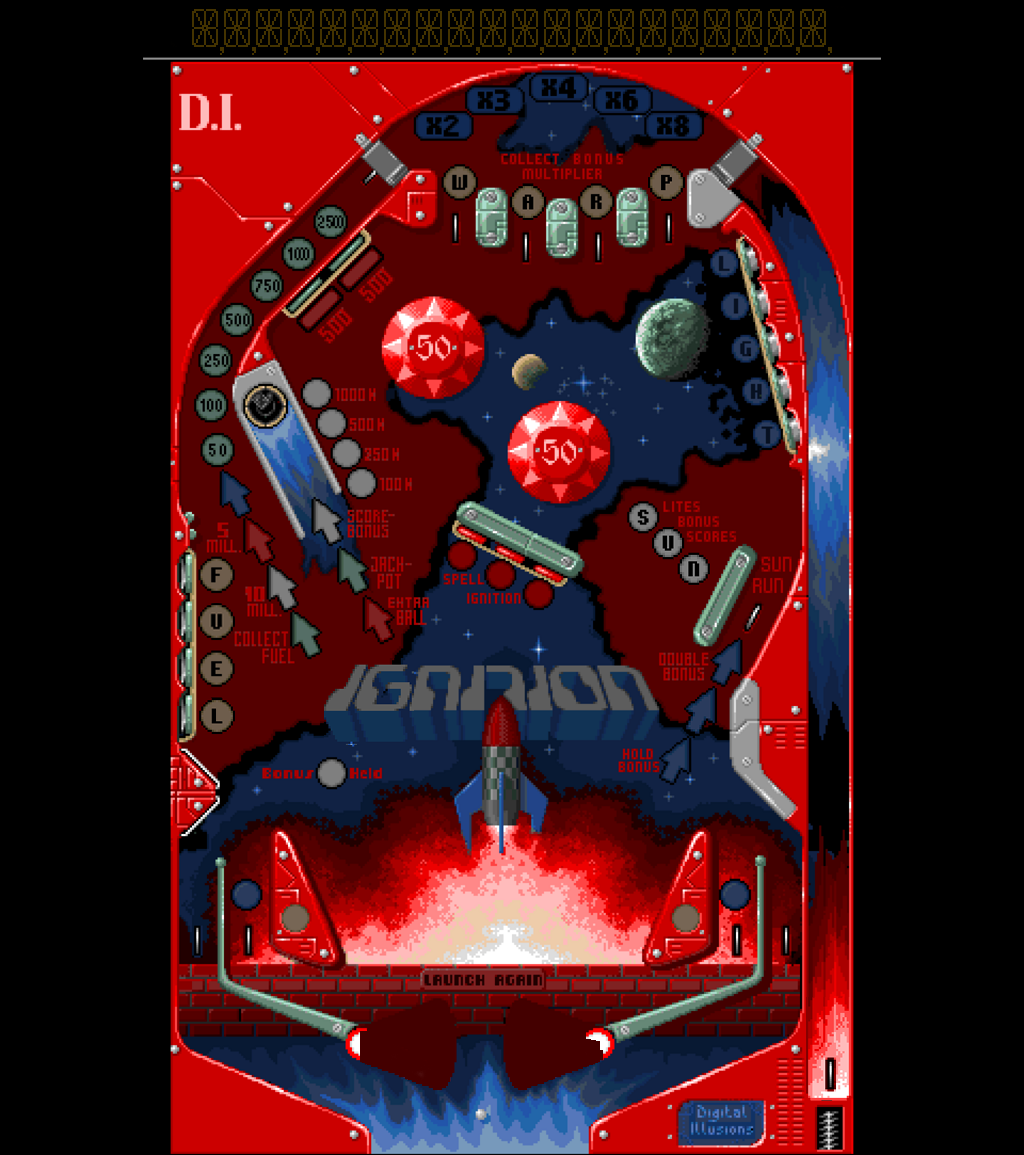
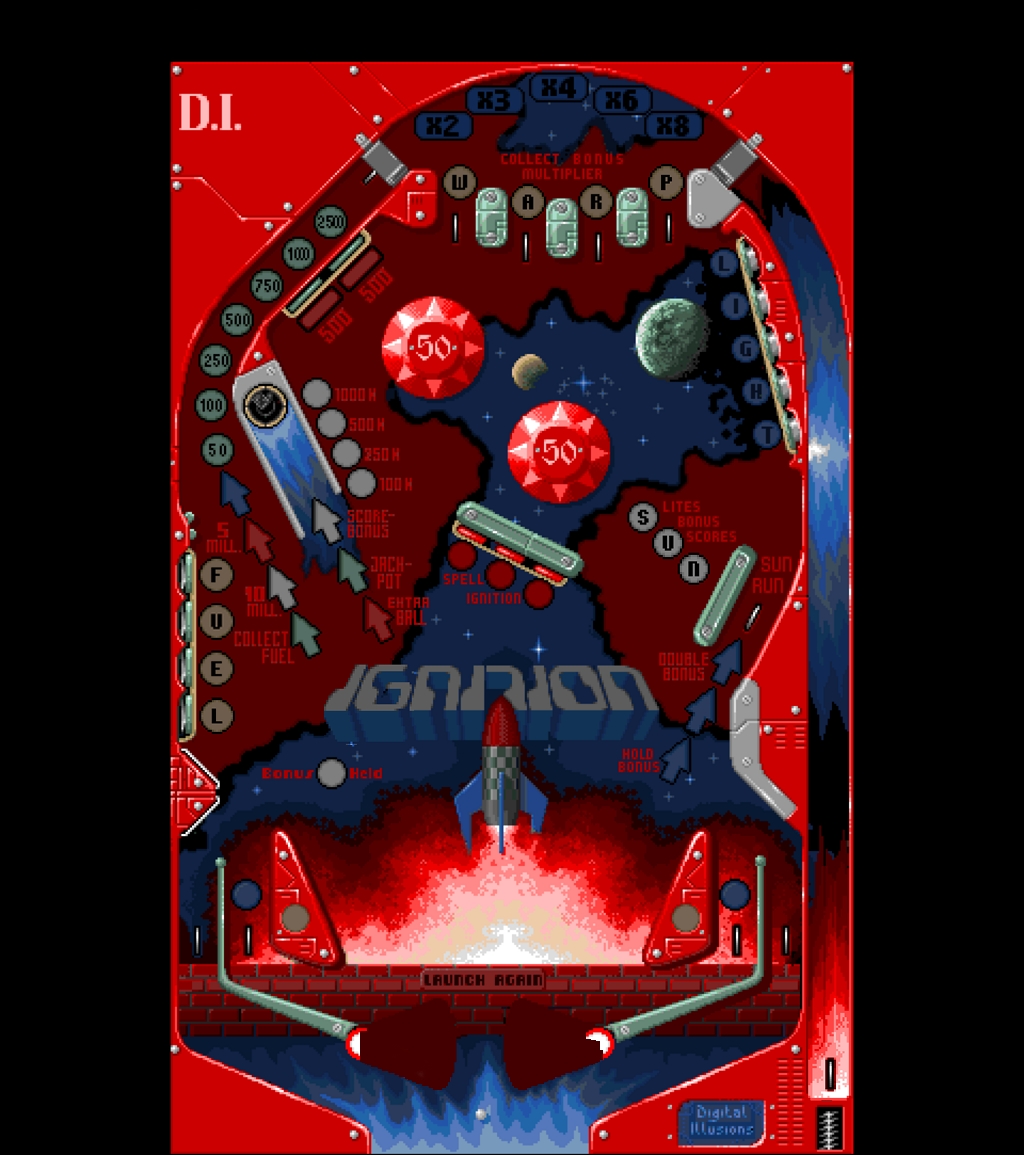
Puntuation improved
also board pg improved, and now the points bar follwos the camera and 2 new sprite added

Changed region(s): [[0.1875, 0.0, 0.8125, 0.0623]]

diff --git a/Physics2_class4 - handout/ModuleScenePinball.cpp b/Physics2_class4 - handout/ModuleScenePinball.cpp
@@ -39,6 +39,7 @@ bool ModuleScenePinball::Start()
 	flipper_Left = App->textures->Load("pinball/fliper_Left.png");
 	flipper_Right = App->textures->Load("pinball/fliper_Right.png");
 	balltxt = App->textures->Load("pinball/ball.png");
+	bar_points= App->textures->Load("pinball/bar_points.png");
 	font_puntuation = App->fonts->Load("pinball/numbers.png", "1234567890", 1);
 	App->renderer->camera.x = App->renderer->camera.y = 0;
 
@@ -317,6 +318,7 @@ update_status ModuleScenePinball::Update()
 
 	int x, y;
 	ball->GetPosition(x, y);
+	puntuation_bar_max = y - 386;
 
 	FlipperLJoint->SetMotorSpeed(-1000 * DEGTORAD);
 	FlipperRJoint->SetMotorSpeed(1000 * DEGTORAD);
@@ -324,7 +326,7 @@ update_status ModuleScenePinball::Update()
 	if (KickerJoint->IsMotorEnabled())KickerJoint->EnableMotor(false);
 	if(SSRJoint->IsMotorEnabled())SSRJoint->EnableMotor(false);
 	if (SSLJoint->IsMotorEnabled())SSLJoint->EnableMotor(false);
-
+	if (puntuation_bar_max <= -2) {puntuation_bar_max = -2;}
 	Input();
 
 	p2SString title("Pinball_Dreams Box2D  mouse.x:%d mouse.y %d",
@@ -339,7 +341,8 @@ update_status ModuleScenePinball::Update()
 	App->renderer->Blit(flipper_Left, (Flipper_L_positon_x+5),(Flipper_L_positon_y+10), NULL, 1.0f, Flipper_L_rotation, -5, -5);
 	App->renderer->Blit(flipper_Right, (Flipper_R_positon_x), (Flipper_R_positon_y +5), NULL, 1.0f, Flipper_R_rotation, -1,0);
 	App->renderer->Blit(balltxt, x, y, NULL, 1.0f, Ball_rotation, 15, 15);
-	
+	App->renderer->Blit(bar_points,142, puntuation_bar_max, NULL, 1.0f, 0, 0, 0);
+
 	//Puntuation
 	currentpts.value = currentpts.value + 10000;
 	sprintf_s(text, 10, "%d",currentpts.value);
@@ -372,7 +375,7 @@ update_status ModuleScenePinball::Update()
 		currentpts.value = 100000000;
 	}
 	
-	App->fonts->BlitText(puntuation_x,App->renderer->camera.y+4, font_puntuation,text);
+	App->fonts->BlitText(puntuation_x,2, font_puntuation,text);
 	return UPDATE_CONTINUE;
 }
 

diff --git a/Physics2_class4 - handout/ModuleScenePinball.h b/Physics2_class4 - handout/ModuleScenePinball.h
@@ -108,8 +108,10 @@ private:
 	SDL_Texture* flipper_Left;
 	SDL_Texture* flipper_Right;
 	SDL_Texture* balltxt;
+	SDL_Texture* bar_points;
 
-		// Constants for blit flipper Right
+
+	// Constants for blit flipper Right
 	float Flipper_R_rotation = 0;
 	int Flipper_R_positon_x = 0;
 	int Flipper_R_positon_y = 0;
@@ -122,6 +124,8 @@ private:
 	//Constants for blit ball
 	float Ball_rotation = 0;
 
+	//Constant for blit puntuation_bar
+	int puntuation_bar_max;
 	//Puntuation variables
 	int font_puntuation = -1;
 	char text[10];
